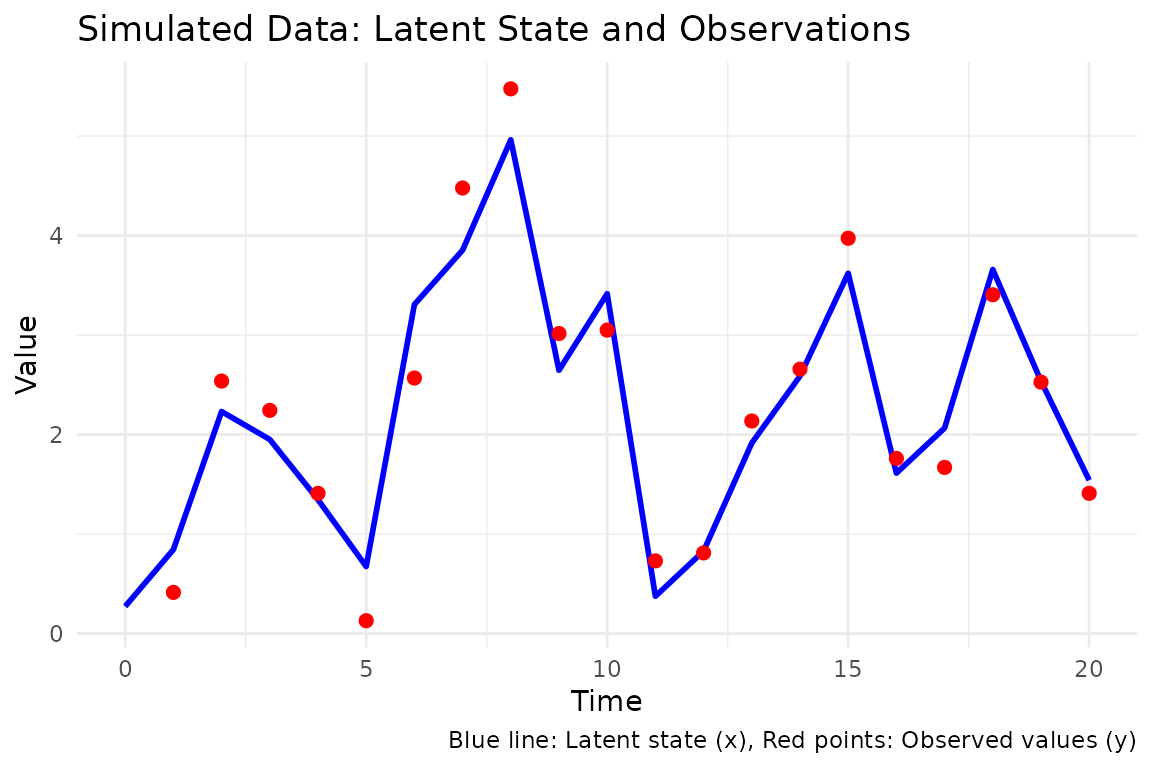
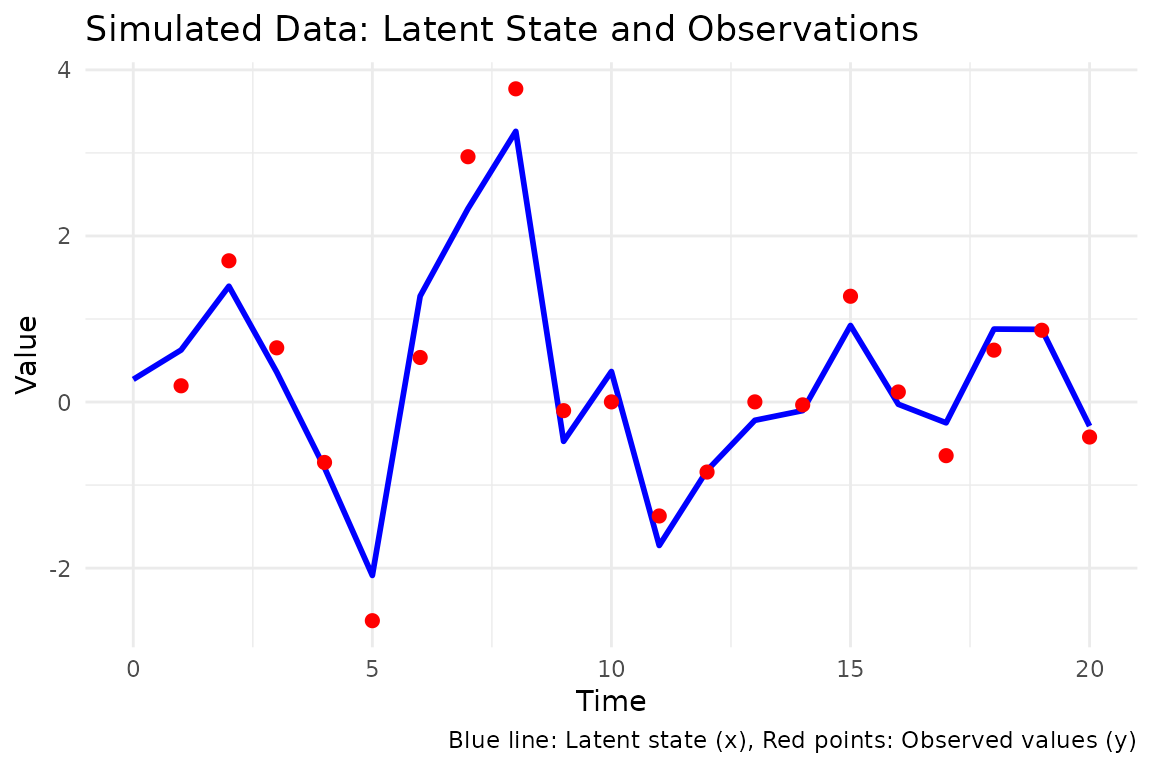
Deploying to gh-pages from @ BjarkeHautop/bayesSSM@52d4bec5248b531f1075fa6bc460a51c7f38d018 🚀

diff --git a/articles/bayesSSM.html b/articles/bayesSSM.html
@@ -25,7 +25,7 @@
 
     <a class="navbar-brand me-2" href="../index.html">bayesSSM</a>
 
-    <small class="nav-text text-muted me-auto" data-bs-toggle="tooltip" data-bs-placement="bottom" title="">0.5.0.9010</small>
+    <small class="nav-text text-muted me-auto" data-bs-toggle="tooltip" data-bs-placement="bottom" title="">0.5.0.9011</small>
 
 
     <button class="navbar-toggler" type="button" data-bs-toggle="collapse" data-bs-target="#navbar" aria-controls="navbar" aria-expanded="false" aria-label="Toggle navigation">
@@ -76,35 +76,32 @@
 <span><span class="kw"><a href="https://rdrr.io/r/base/library.html" class="external-link">library</a></span><span class="op">(</span><span class="va"><a href="https://ggplot2.tidyverse.org" class="external-link">ggplot2</a></span><span class="op">)</span></span></code></pre></div>
 <p>We will show how to fit the following SSM model using the
 <code>bayesSSM</code> package:</p>
-<p><math display="block" xmlns="http://www.w3.org/1998/Math/MathML"><semantics><mtable><mtr><mtd columnalign="right" style="text-align: right"><msub><mi>X</mi><mn>0</mn></msub></mtd><mtd columnalign="left" style="text-align: left"><mo>∼</mo><mi>N</mi><mrow><mo stretchy="true" form="prefix">(</mo><mn>0</mn><mo>,</mo><mn>1</mn><mo stretchy="true" form="postfix">)</mo></mrow></mtd></mtr><mtr><mtd columnalign="right" style="text-align: right"><msub><mi>X</mi><mi>t</mi></msub></mtd><mtd columnalign="left" style="text-align: left"><mo>=</mo><mi>ϕ</mi><msub><mi>X</mi><mrow><mi>t</mi><mo>−</mo><mn>1</mn></mrow></msub><mo>+</mo><mo>sin</mo><mrow><mo stretchy="true" form="prefix">(</mo><msub><mi>X</mi><mrow><mi>t</mi><mo>−</mo><mn>1</mn></mrow></msub><mo stretchy="true" form="postfix">)</mo></mrow><mo>+</mo><msub><mi>σ</mi><mi>x</mi></msub><msub><mi>V</mi><mi>t</mi></msub><mo>,</mo><mspace width="1.0em"></mspace><msub><mi>V</mi><mi>t</mi></msub><mo>∼</mo><mi>N</mi><mrow><mo stretchy="true" form="prefix">(</mo><mn>0</mn><mo>,</mo><mn>1</mn><mo stretchy="true" form="postfix">)</mo></mrow><mo>,</mo><mspace width="1.0em"></mspace><mi>t</mi><mo>≥</mo><mn>1</mn></mtd></mtr><mtr><mtd columnalign="right" style="text-align: right"><msub><mi>Y</mi><mi>t</mi></msub></mtd><mtd columnalign="left" style="text-align: left"><mo>=</mo><msub><mi>X</mi><mi>t</mi></msub><mo>+</mo><msub><mi>σ</mi><mi>y</mi></msub><msub><mi>W</mi><mi>t</mi></msub><mo>,</mo><mspace width="1.0em"></mspace><msub><mi>W</mi><mi>t</mi></msub><mo>∼</mo><mi>N</mi><mrow><mo stretchy="true" form="prefix">(</mo><mn>0</mn><mo>,</mo><mn>1</mn><mo stretchy="true" form="postfix">)</mo></mrow><mo>,</mo><mspace width="1.0em"></mspace><mi>t</mi><mo>≥</mo><mn>1</mn></mtd></mtr></mtable><annotation encoding="application/x-tex">\begin{align*}
+<p><math display="block" xmlns="http://www.w3.org/1998/Math/MathML"><semantics><mtable><mtr><mtd columnalign="right" style="text-align: right"><msub><mi>X</mi><mn>0</mn></msub></mtd><mtd columnalign="left" style="text-align: left"><mo>∼</mo><mi>N</mi><mrow><mo stretchy="true" form="prefix">(</mo><mn>0</mn><mo>,</mo><mn>1</mn><mo stretchy="true" form="postfix">)</mo></mrow></mtd></mtr><mtr><mtd columnalign="right" style="text-align: right"><msub><mi>X</mi><mi>t</mi></msub></mtd><mtd columnalign="left" style="text-align: left"><mo>=</mo><mo>sin</mo><mrow><mo stretchy="true" form="prefix">(</mo><msub><mi>X</mi><mrow><mi>t</mi><mo>−</mo><mn>1</mn></mrow></msub><mo stretchy="true" form="postfix">)</mo></mrow><mo>+</mo><msub><mi>σ</mi><mi>x</mi></msub><msub><mi>V</mi><mi>t</mi></msub><mo>,</mo><mspace width="1.0em"></mspace><msub><mi>V</mi><mi>t</mi></msub><mo>∼</mo><mi>N</mi><mrow><mo stretchy="true" form="prefix">(</mo><mn>0</mn><mo>,</mo><mn>1</mn><mo stretchy="true" form="postfix">)</mo></mrow><mo>,</mo><mspace width="1.0em"></mspace><mi>t</mi><mo>≥</mo><mn>1</mn></mtd></mtr><mtr><mtd columnalign="right" style="text-align: right"><msub><mi>Y</mi><mi>t</mi></msub></mtd><mtd columnalign="left" style="text-align: left"><mo>=</mo><msub><mi>X</mi><mi>t</mi></msub><mo>+</mo><msub><mi>σ</mi><mi>y</mi></msub><msub><mi>W</mi><mi>t</mi></msub><mo>,</mo><mspace width="1.0em"></mspace><msub><mi>W</mi><mi>t</mi></msub><mo>∼</mo><mi>N</mi><mrow><mo stretchy="true" form="prefix">(</mo><mn>0</mn><mo>,</mo><mn>1</mn><mo stretchy="true" form="postfix">)</mo></mrow><mo>,</mo><mspace width="1.0em"></mspace><mi>t</mi><mo>≥</mo><mn>1</mn></mtd></mtr></mtable><annotation encoding="application/x-tex">\begin{align*}
         X_0 &amp;\sim N(0,1) \\
-        X_t&amp;=\phi X_{t-1}+\sin(X_{t-1})+\sigma_x V_t, \quad V_t \sim N(0,1), \quad t\geq 1 \\
+        X_t&amp;=\sin(X_{t-1})+\sigma_x V_t, \quad V_t \sim N(0,1), \quad t\geq 1 \\
         Y_t&amp;=X_t+\sigma_y W_t, \quad W_t \sim N(0, 1), \quad t\geq 1 
 \end{align*}</annotation></semantics></math> that is
 <math display="inline" xmlns="http://www.w3.org/1998/Math/MathML"><semantics><msub><mi>X</mi><mi>t</mi></msub><annotation encoding="application/x-tex">X_t</annotation></semantics></math>
 is a latent state and
 <math display="inline" xmlns="http://www.w3.org/1998/Math/MathML"><semantics><msub><mi>Y</mi><mi>t</mi></msub><annotation encoding="application/x-tex">Y_t</annotation></semantics></math>
 is an observed value. The parameters of the model are
-<math display="inline" xmlns="http://www.w3.org/1998/Math/MathML"><semantics><mi>ϕ</mi><annotation encoding="application/x-tex">\phi</annotation></semantics></math>,
-<math display="inline" xmlns="http://www.w3.org/1998/Math/MathML"><semantics><msub><mi>σ</mi><mi>x</mi></msub><annotation encoding="application/x-tex">\sigma_x</annotation></semantics></math>,
+<math display="inline" xmlns="http://www.w3.org/1998/Math/MathML"><semantics><msub><mi>σ</mi><mi>x</mi></msub><annotation encoding="application/x-tex">\sigma_x</annotation></semantics></math>
 and
 <math display="inline" xmlns="http://www.w3.org/1998/Math/MathML"><semantics><msub><mi>σ</mi><mi>y</mi></msub><annotation encoding="application/x-tex">\sigma_y</annotation></semantics></math>.</p>
 <p>First, we will simulate some data from this model:</p>
 <div class="sourceCode" id="cb2"><pre class="downlit sourceCode r">
 <code class="sourceCode R"><span><span class="fu"><a href="https://rdrr.io/r/base/Random.html" class="external-link">set.seed</a></span><span class="op">(</span><span class="fl">1405</span><span class="op">)</span></span>
 <span><span class="va">t_val</span> <span class="op">&lt;-</span> <span class="fl">20</span></span>
-<span><span class="va">phi</span> <span class="op">&lt;-</span> <span class="fl">0.8</span></span>
 <span><span class="va">sigma_x</span> <span class="op">&lt;-</span> <span class="fl">1</span></span>
 <span><span class="va">sigma_y</span> <span class="op">&lt;-</span> <span class="fl">0.5</span></span>
 <span></span>
 <span><span class="va">init_state</span> <span class="op">&lt;-</span> <span class="fu"><a href="https://rdrr.io/r/stats/Normal.html" class="external-link">rnorm</a></span><span class="op">(</span><span class="fl">1</span>, mean <span class="op">=</span> <span class="fl">0</span>, sd <span class="op">=</span> <span class="fl">1</span><span class="op">)</span></span>
 <span><span class="va">x</span> <span class="op">&lt;-</span> <span class="fu"><a href="https://rdrr.io/r/base/numeric.html" class="external-link">numeric</a></span><span class="op">(</span><span class="va">t_val</span><span class="op">)</span></span>
 <span><span class="va">y</span> <span class="op">&lt;-</span> <span class="fu"><a href="https://rdrr.io/r/base/numeric.html" class="external-link">numeric</a></span><span class="op">(</span><span class="va">t_val</span><span class="op">)</span></span>
-<span><span class="va">x</span><span class="op">[</span><span class="fl">1</span><span class="op">]</span> <span class="op">&lt;-</span> <span class="va">phi</span> <span class="op">*</span> <span class="va">init_state</span> <span class="op">+</span> <span class="fu"><a href="https://rdrr.io/r/base/Trig.html" class="external-link">sin</a></span><span class="op">(</span><span class="va">init_state</span><span class="op">)</span> <span class="op">+</span></span>
-<span>  <span class="fu"><a href="https://rdrr.io/r/stats/Normal.html" class="external-link">rnorm</a></span><span class="op">(</span><span class="fl">1</span>, mean <span class="op">=</span> <span class="fl">0</span>, sd <span class="op">=</span> <span class="va">sigma_x</span><span class="op">)</span></span>
+<span><span class="va">x</span><span class="op">[</span><span class="fl">1</span><span class="op">]</span> <span class="op">&lt;-</span> <span class="fu"><a href="https://rdrr.io/r/base/Trig.html" class="external-link">sin</a></span><span class="op">(</span><span class="va">init_state</span><span class="op">)</span> <span class="op">+</span> <span class="fu"><a href="https://rdrr.io/r/stats/Normal.html" class="external-link">rnorm</a></span><span class="op">(</span><span class="fl">1</span>, mean <span class="op">=</span> <span class="fl">0</span>, sd <span class="op">=</span> <span class="va">sigma_x</span><span class="op">)</span></span>
 <span><span class="va">y</span><span class="op">[</span><span class="fl">1</span><span class="op">]</span> <span class="op">&lt;-</span> <span class="va">x</span><span class="op">[</span><span class="fl">1</span><span class="op">]</span> <span class="op">+</span> <span class="fu"><a href="https://rdrr.io/r/stats/Normal.html" class="external-link">rnorm</a></span><span class="op">(</span><span class="fl">1</span>, mean <span class="op">=</span> <span class="fl">0</span>, sd <span class="op">=</span> <span class="va">sigma_y</span><span class="op">)</span></span>
 <span><span class="kw">for</span> <span class="op">(</span><span class="va">t</span> <span class="kw">in</span> <span class="fl">2</span><span class="op">:</span><span class="va">t_val</span><span class="op">)</span> <span class="op">{</span></span>
-<span>  <span class="va">x</span><span class="op">[</span><span class="va">t</span><span class="op">]</span> <span class="op">&lt;-</span> <span class="va">phi</span> <span class="op">*</span> <span class="va">x</span><span class="op">[</span><span class="va">t</span> <span class="op">-</span> <span class="fl">1</span><span class="op">]</span> <span class="op">+</span> <span class="fu"><a href="https://rdrr.io/r/base/Trig.html" class="external-link">sin</a></span><span class="op">(</span><span class="va">x</span><span class="op">[</span><span class="va">t</span> <span class="op">-</span> <span class="fl">1</span><span class="op">]</span><span class="op">)</span> <span class="op">+</span> <span class="fu"><a href="https://rdrr.io/r/stats/Normal.html" class="external-link">rnorm</a></span><span class="op">(</span><span class="fl">1</span>, mean <span class="op">=</span> <span class="fl">0</span>, sd <span class="op">=</span> <span class="va">sigma_x</span><span class="op">)</span></span>
+<span>  <span class="va">x</span><span class="op">[</span><span class="va">t</span><span class="op">]</span> <span class="op">&lt;-</span> <span class="fu"><a href="https://rdrr.io/r/base/Trig.html" class="external-link">sin</a></span><span class="op">(</span><span class="va">x</span><span class="op">[</span><span class="va">t</span> <span class="op">-</span> <span class="fl">1</span><span class="op">]</span><span class="op">)</span> <span class="op">+</span> <span class="fu"><a href="https://rdrr.io/r/stats/Normal.html" class="external-link">rnorm</a></span><span class="op">(</span><span class="fl">1</span>, mean <span class="op">=</span> <span class="fl">0</span>, sd <span class="op">=</span> <span class="va">sigma_x</span><span class="op">)</span></span>
 <span>  <span class="va">y</span><span class="op">[</span><span class="va">t</span><span class="op">]</span> <span class="op">&lt;-</span> <span class="va">x</span><span class="op">[</span><span class="va">t</span><span class="op">]</span> <span class="op">+</span> <span class="fu"><a href="https://rdrr.io/r/stats/Normal.html" class="external-link">rnorm</a></span><span class="op">(</span><span class="fl">1</span>, mean <span class="op">=</span> <span class="fl">0</span>, sd <span class="op">=</span> <span class="va">sigma_y</span><span class="op">)</span></span>
 <span><span class="op">}</span></span>
 <span><span class="va">x</span> <span class="op">&lt;-</span> <span class="fu"><a href="https://rdrr.io/r/base/c.html" class="external-link">c</a></span><span class="op">(</span><span class="va">init_state</span>, <span class="va">x</span><span class="op">)</span></span></code></pre></div>
@@ -138,30 +135,24 @@ in <code>transition_fn</code> and <code>log_likelihood_fn</code>.</p>
 <span>  <span class="fu"><a href="https://rdrr.io/r/stats/Normal.html" class="external-link">rnorm</a></span><span class="op">(</span><span class="va">num_particles</span>, mean <span class="op">=</span> <span class="fl">0</span>, sd <span class="op">=</span> <span class="fl">1</span><span class="op">)</span></span>
 <span><span class="op">}</span></span>
 <span></span>
-<span><span class="va">transition_fn</span> <span class="op">&lt;-</span> <span class="kw">function</span><span class="op">(</span><span class="va">particles</span>, <span class="va">phi</span>, <span class="va">sigma_x</span><span class="op">)</span> <span class="op">{</span></span>
-<span>  <span class="va">phi</span> <span class="op">*</span> <span class="va">particles</span> <span class="op">+</span> <span class="fu"><a href="https://rdrr.io/r/base/Trig.html" class="external-link">sin</a></span><span class="op">(</span><span class="va">particles</span><span class="op">)</span> <span class="op">+</span></span>
-<span>    <span class="fu"><a href="https://rdrr.io/r/stats/Normal.html" class="external-link">rnorm</a></span><span class="op">(</span><span class="fu"><a href="https://rdrr.io/r/base/length.html" class="external-link">length</a></span><span class="op">(</span><span class="va">particles</span><span class="op">)</span>, mean <span class="op">=</span> <span class="fl">0</span>, sd <span class="op">=</span> <span class="va">sigma_x</span><span class="op">)</span></span>
+<span><span class="va">transition_fn</span> <span class="op">&lt;-</span> <span class="kw">function</span><span class="op">(</span><span class="va">particles</span>, <span class="va">sigma_x</span><span class="op">)</span> <span class="op">{</span></span>
+<span>  <span class="fu"><a href="https://rdrr.io/r/base/Trig.html" class="external-link">sin</a></span><span class="op">(</span><span class="va">particles</span><span class="op">)</span> <span class="op">+</span> <span class="fu"><a href="https://rdrr.io/r/stats/Normal.html" class="external-link">rnorm</a></span><span class="op">(</span><span class="fu"><a href="https://rdrr.io/r/base/length.html" class="external-link">length</a></span><span class="op">(</span><span class="va">particles</span><span class="op">)</span>, mean <span class="op">=</span> <span class="fl">0</span>, sd <span class="op">=</span> <span class="va">sigma_x</span><span class="op">)</span></span>
 <span><span class="op">}</span></span>
 <span></span>
 <span><span class="va">log_likelihood_fn</span> <span class="op">&lt;-</span> <span class="kw">function</span><span class="op">(</span><span class="va">y</span>, <span class="va">particles</span>, <span class="va">sigma_y</span><span class="op">)</span> <span class="op">{</span></span>
 <span>  <span class="fu"><a href="https://rdrr.io/r/stats/Normal.html" class="external-link">dnorm</a></span><span class="op">(</span><span class="va">y</span>, mean <span class="op">=</span> <span class="va">particles</span>, sd <span class="op">=</span> <span class="va">sigma_y</span>, log <span class="op">=</span> <span class="cn">TRUE</span><span class="op">)</span></span>
 <span><span class="op">}</span></span></code></pre></div>
 <p>Since we are interested in Bayesian inference, we need to specify the
-priors for our parameters. We will use a normal prior for
-<math display="inline" xmlns="http://www.w3.org/1998/Math/MathML"><semantics><mi>ϕ</mi><annotation encoding="application/x-tex">\phi</annotation></semantics></math>
-and exponential priors for
+priors for our parameters. We will use exponential priors for
 <math display="inline" xmlns="http://www.w3.org/1998/Math/MathML"><semantics><msub><mi>σ</mi><mi>x</mi></msub><annotation encoding="application/x-tex">\sigma_x</annotation></semantics></math>
 and
-<math display="inline" xmlns="http://www.w3.org/1998/Math/MathML"><semantics><msub><mi>σ</mi><mi>y</mi></msub><annotation encoding="application/x-tex">\sigma_y</annotation></semantics></math>.
-<code>pmmh</code> needs the priors to be specified on the
+<math display="inline" xmlns="http://www.w3.org/1998/Math/MathML"><semantics><msub><mi>σ</mi><mi>y</mi></msub><annotation encoding="application/x-tex">\sigma_y</annotation></semantics></math>
+in this vignette. <code>pmmh</code> needs the priors to be specified on
+the
 <math display="inline" xmlns="http://www.w3.org/1998/Math/MathML"><semantics><mo>log</mo><annotation encoding="application/x-tex">\log</annotation></semantics></math>-scale
 and takes the priors as a list of functions.</p>
 <div class="sourceCode" id="cb5"><pre class="downlit sourceCode r">
-<code class="sourceCode R"><span><span class="va">log_prior_phi</span> <span class="op">&lt;-</span> <span class="kw">function</span><span class="op">(</span><span class="va">phi</span><span class="op">)</span> <span class="op">{</span></span>
-<span>  <span class="fu"><a href="https://rdrr.io/r/stats/Uniform.html" class="external-link">dunif</a></span><span class="op">(</span><span class="va">phi</span>, min <span class="op">=</span> <span class="fl">0</span>, max <span class="op">=</span> <span class="fl">1</span>, log <span class="op">=</span> <span class="cn">TRUE</span><span class="op">)</span></span>
-<span><span class="op">}</span></span>
-<span></span>
-<span><span class="va">log_prior_sigma_x</span> <span class="op">&lt;-</span> <span class="kw">function</span><span class="op">(</span><span class="va">sigma</span><span class="op">)</span> <span class="op">{</span></span>
+<code class="sourceCode R"><span><span class="va">log_prior_sigma_x</span> <span class="op">&lt;-</span> <span class="kw">function</span><span class="op">(</span><span class="va">sigma</span><span class="op">)</span> <span class="op">{</span></span>
 <span>  <span class="fu"><a href="https://rdrr.io/r/stats/Exponential.html" class="external-link">dexp</a></span><span class="op">(</span><span class="va">sigma</span>, rate <span class="op">=</span> <span class="fl">1</span>, log <span class="op">=</span> <span class="cn">TRUE</span><span class="op">)</span></span>
 <span><span class="op">}</span></span>
 <span></span>
@@ -170,7 +161,6 @@ and takes the priors as a list of functions.</p>
 <span><span class="op">}</span></span>
 <span></span>
 <span><span class="va">log_priors</span> <span class="op">&lt;-</span> <span class="fu"><a href="https://rdrr.io/r/base/list.html" class="external-link">list</a></span><span class="op">(</span></span>
-<span>  phi <span class="op">=</span> <span class="va">log_prior_phi</span>,</span>
 <span>  sigma_x <span class="op">=</span> <span class="va">log_prior_sigma_x</span>,</span>
 <span>  sigma_y <span class="op">=</span> <span class="va">log_prior_sigma_y</span></span>
 <span><span class="op">)</span></span></code></pre></div>
@@ -201,14 +191,13 @@ should be on the
 <span>  log_likelihood_fn <span class="op">=</span> <span class="va">log_likelihood_fn</span>,</span>
 <span>  log_priors <span class="op">=</span> <span class="va">log_priors</span>,</span>
 <span>  pilot_init_params <span class="op">=</span> <span class="fu"><a href="https://rdrr.io/r/base/list.html" class="external-link">list</a></span><span class="op">(</span></span>
-<span>    <span class="fu"><a href="https://rdrr.io/r/base/c.html" class="external-link">c</a></span><span class="op">(</span>phi <span class="op">=</span> <span class="fl">0.4</span>, sigma_x <span class="op">=</span> <span class="fl">0.4</span>, sigma_y <span class="op">=</span> <span class="fl">0.4</span><span class="op">)</span>,</span>
-<span>    <span class="fu"><a href="https://rdrr.io/r/base/c.html" class="external-link">c</a></span><span class="op">(</span>phi <span class="op">=</span> <span class="fl">0.8</span>, sigma_x <span class="op">=</span> <span class="fl">0.8</span>, sigma_y <span class="op">=</span> <span class="fl">0.8</span><span class="op">)</span></span>
+<span>    <span class="fu"><a href="https://rdrr.io/r/base/c.html" class="external-link">c</a></span><span class="op">(</span>sigma_x <span class="op">=</span> <span class="fl">0.4</span>, sigma_y <span class="op">=</span> <span class="fl">0.4</span><span class="op">)</span>,</span>
+<span>    <span class="fu"><a href="https://rdrr.io/r/base/c.html" class="external-link">c</a></span><span class="op">(</span>sigma_x <span class="op">=</span> <span class="fl">0.8</span>, sigma_y <span class="op">=</span> <span class="fl">0.8</span><span class="op">)</span></span>
 <span>  <span class="op">)</span>,</span>
 <span>  burn_in <span class="op">=</span> <span class="fl">500</span>,</span>
 <span>  num_chains <span class="op">=</span> <span class="fl">2</span>,</span>
 <span>  seed <span class="op">=</span> <span class="fl">1405</span>,</span>
 <span>  param_transform <span class="op">=</span> <span class="fu"><a href="https://rdrr.io/r/base/list.html" class="external-link">list</a></span><span class="op">(</span></span>
-<span>    phi <span class="op">=</span> <span class="st">"logit"</span>,</span>
 <span>    sigma_x <span class="op">=</span> <span class="st">"log"</span>,</span>
 <span>    sigma_y <span class="op">=</span> <span class="st">"log"</span></span>
 <span>  <span class="op">)</span>,</span>
@@ -218,32 +207,29 @@ should be on the
 <span><span class="co">#&gt; Running chain 1...</span></span>
 <span><span class="co">#&gt; Running pilot chain for tuning...</span></span>
 <span><span class="co">#&gt; Pilot chain posterior mean:</span></span>
-<span><span class="co">#&gt;       phi   sigma_x   sigma_y </span></span>
-<span><span class="co">#&gt; 0.8366116 0.8055350 0.9033480</span></span>
+<span><span class="co">#&gt;   sigma_x   sigma_y </span></span>
+<span><span class="co">#&gt; 0.3141062 1.3603254</span></span>
 <span><span class="co">#&gt; Pilot chain posterior covariance (on transformed space):</span></span>
-<span><span class="co">#&gt;                  phi     sigma_x    sigma_y</span></span>
-<span><span class="co">#&gt; phi      0.002886243  0.00745419 -0.0135152</span></span>
-<span><span class="co">#&gt; sigma_x  0.007454190  0.30397126 -0.2098967</span></span>
-<span><span class="co">#&gt; sigma_y -0.013515201 -0.20989672  0.2087795</span></span>
+<span><span class="co">#&gt;             sigma_x     sigma_y</span></span>
+<span><span class="co">#&gt; sigma_x  0.04474149 -0.01090838</span></span>
+<span><span class="co">#&gt; sigma_y -0.01090838  0.02731918</span></span>
 <span><span class="co">#&gt; Using 50 particles for PMMH:</span></span>
 <span><span class="co">#&gt; Running Particle MCMC chain with tuned settings...</span></span>
 <span><span class="co">#&gt; Running chain 2...</span></span>
 <span><span class="co">#&gt; Running pilot chain for tuning...</span></span>
 <span><span class="co">#&gt; Pilot chain posterior mean:</span></span>
-<span><span class="co">#&gt;       phi   sigma_x   sigma_y </span></span>
-<span><span class="co">#&gt; 0.8571384 1.0670945 0.3961579</span></span>
+<span><span class="co">#&gt;   sigma_x   sigma_y </span></span>
+<span><span class="co">#&gt; 0.8389468 1.1278880</span></span>
 <span><span class="co">#&gt; Pilot chain posterior covariance (on transformed space):</span></span>
-<span><span class="co">#&gt;                  phi      sigma_x      sigma_y</span></span>
-<span><span class="co">#&gt; phi      0.003330875 -0.001494631  0.007777211</span></span>
-<span><span class="co">#&gt; sigma_x -0.001494631  0.039551392 -0.027059704</span></span>
-<span><span class="co">#&gt; sigma_y  0.007777211 -0.027059704  0.035093804</span></span>
-<span><span class="co">#&gt; Using 93 particles for PMMH:</span></span>
+<span><span class="co">#&gt;             sigma_x     sigma_y</span></span>
+<span><span class="co">#&gt; sigma_x  0.20351954 -0.07524757</span></span>
+<span><span class="co">#&gt; sigma_y -0.07524757  0.04146851</span></span>
+<span><span class="co">#&gt; Using 50 particles for PMMH:</span></span>
 <span><span class="co">#&gt; Running Particle MCMC chain with tuned settings...</span></span>
 <span><span class="co">#&gt; PMMH Results Summary:</span></span>
 <span><span class="co">#&gt;  Parameter Mean   SD Median 2.5% 97.5% ESS  Rhat</span></span>
-<span><span class="co">#&gt;        phi 0.99 0.02   1.00 0.91  1.00   4 1.513</span></span>
-<span><span class="co">#&gt;    sigma_x 1.21 0.37   1.21 0.45  1.89  31 1.072</span></span>
-<span><span class="co">#&gt;    sigma_y 0.68 0.37   0.55 0.19  1.36  25 1.070</span></span>
+<span><span class="co">#&gt;    sigma_x 0.74 0.49   0.69 0.05  1.71  17 1.145</span></span>
+<span><span class="co">#&gt;    sigma_y 1.11 0.39   1.17 0.39  1.77   4 1.265</span></span>
 <span><span class="co">#&gt; Warning in pmmh(y = y, m = 1000, init_fn = init_fn, transition_fn =</span></span>
 <span><span class="co">#&gt; transition_fn, : Some ESS values are below 400, indicating poor mixing.</span></span>
 <span><span class="co">#&gt; Consider running the chains for more iterations.</span></span>
@@ -260,25 +246,25 @@ be printed from any <code>pmmh_output</code> object by calling
 <code class="sourceCode R"><span><span class="fu"><a href="https://rdrr.io/r/base/print.html" class="external-link">print</a></span><span class="op">(</span><span class="va">result</span><span class="op">)</span></span>
 <span><span class="co">#&gt; PMMH Results Summary:</span></span>
 <span><span class="co">#&gt;  Parameter Mean   SD Median 2.5% 97.5% ESS  Rhat</span></span>
-<span><span class="co">#&gt;        phi 0.99 0.02   1.00 0.91  1.00   4 1.513</span></span>
-<span><span class="co">#&gt;    sigma_x 1.21 0.37   1.21 0.45  1.89  31 1.072</span></span>
-<span><span class="co">#&gt;    sigma_y 0.68 0.37   0.55 0.19  1.36  25 1.070</span></span></code></pre></div>
+<span><span class="co">#&gt;    sigma_x 0.74 0.49   0.69 0.05  1.71  17 1.145</span></span>
+<span><span class="co">#&gt;    sigma_y 1.11 0.39   1.17 0.39  1.77   4 1.265</span></span></code></pre></div>
 <p>The chains are saved as <code>theta_chain</code></p>
 <div class="sourceCode" id="cb8"><pre class="downlit sourceCode r">
 <code class="sourceCode R"><span><span class="va">chains</span> <span class="op">&lt;-</span> <span class="va">result</span><span class="op">$</span><span class="va">theta_chain</span></span></code></pre></div>
-<p>Let’s collect the chains for phi from the chains and visualize the
-densities</p>
+<p>Let’s collect the chains for
+<math display="inline" xmlns="http://www.w3.org/1998/Math/MathML"><semantics><msub><mi>σ</mi><mi>x</mi></msub><annotation encoding="application/x-tex">\sigma_x</annotation></semantics></math>
+from the chains and visualize the densities</p>
 <div class="sourceCode" id="cb9"><pre class="downlit sourceCode r">
-<code class="sourceCode R"><span><span class="fu"><a href="https://ggplot2.tidyverse.org/reference/ggplot.html" class="external-link">ggplot</a></span><span class="op">(</span><span class="va">chains</span>, <span class="fu"><a href="https://ggplot2.tidyverse.org/reference/aes.html" class="external-link">aes</a></span><span class="op">(</span>x <span class="op">=</span> <span class="va">phi</span>, fill <span class="op">=</span> <span class="fu"><a href="https://rdrr.io/r/base/factor.html" class="external-link">factor</a></span><span class="op">(</span><span class="va">chain</span><span class="op">)</span><span class="op">)</span><span class="op">)</span> <span class="op">+</span></span>
+<code class="sourceCode R"><span><span class="fu"><a href="https://ggplot2.tidyverse.org/reference/ggplot.html" class="external-link">ggplot</a></span><span class="op">(</span><span class="va">chains</span>, <span class="fu"><a href="https://ggplot2.tidyverse.org/reference/aes.html" class="external-link">aes</a></span><span class="op">(</span>x <span class="op">=</span> <span class="va">sigma_x</span>, fill <span class="op">=</span> <span class="fu"><a href="https://rdrr.io/r/base/factor.html" class="external-link">factor</a></span><span class="op">(</span><span class="va">chain</span><span class="op">)</span><span class="op">)</span><span class="op">)</span> <span class="op">+</span></span>
 <span>  <span class="fu"><a href="https://ggplot2.tidyverse.org/reference/geom_density.html" class="external-link">geom_density</a></span><span class="op">(</span>alpha <span class="op">=</span> <span class="fl">0.5</span><span class="op">)</span> <span class="op">+</span></span>
 <span>  <span class="fu"><a href="https://ggplot2.tidyverse.org/reference/labs.html" class="external-link">labs</a></span><span class="op">(</span></span>
-<span>    title <span class="op">=</span> <span class="st">"Density plot of phi chains"</span>,</span>
+<span>    title <span class="op">=</span> <span class="st">"Density plot of sigma_x chains"</span>,</span>
 <span>    x <span class="op">=</span> <span class="st">"Value"</span>,</span>
 <span>    y <span class="op">=</span> <span class="st">"Density"</span>,</span>
 <span>    fill <span class="op">=</span> <span class="st">"Chain"</span></span>
 <span>  <span class="op">)</span> <span class="op">+</span></span>
 <span>  <span class="fu"><a href="https://ggplot2.tidyverse.org/reference/ggtheme.html" class="external-link">theme_minimal</a></span><span class="op">(</span><span class="op">)</span></span></code></pre></div>
-<p><img src="bayesSSM_files/figure-html/unnamed-chunk-9-1.png" alt="Density plot of phi chains." width="576"></p>
+<p><img src="bayesSSM_files/figure-html/unnamed-chunk-9-1.png" alt="Density plot of sigma_x chains." width="576"></p>
 <p>We have now fitted a simple SSM model using <code>bayesSSM</code>.
 Feel free to explore the package further and try out different
 models.</p>

diff --git a/authors.html b/authors.html
@@ -7,7 +7,7 @@
 
     <a class="navbar-brand me-2" href="index.html">bayesSSM</a>
 
-    <small class="nav-text text-muted me-auto" data-bs-toggle="tooltip" data-bs-placement="bottom" title="">0.5.0.9010</small>
+    <small class="nav-text text-muted me-auto" data-bs-toggle="tooltip" data-bs-placement="bottom" title="">0.5.0.9011</small>
 
 
     <button class="navbar-toggler" type="button" data-bs-toggle="collapse" data-bs-target="#navbar" aria-controls="navbar" aria-expanded="false" aria-label="Toggle navigation">
@@ -51,13 +51,13 @@
 
       <p>Hautop B (2025).
 <em>bayesSSM: Bayesian Methods for State Space Models</em>.
-R package version 0.5.0.9010, <a href="https://github.com/BjarkeHautop/bayesSSM" class="external-link">https://github.com/BjarkeHautop/bayesSSM</a>.
+R package version 0.5.0.9011, <a href="https://github.com/BjarkeHautop/bayesSSM" class="external-link">https://github.com/BjarkeHautop/bayesSSM</a>.
 </p>
       <pre>@Manual{,
   title = {bayesSSM: Bayesian Methods for State Space Models},
   author = {Bjarke Hautop},
   year = {2025},
-  note = {R package version 0.5.0.9010},
+  note = {R package version 0.5.0.9011},
   url = {https://github.com/BjarkeHautop/bayesSSM},
 }</pre>
     </div>

diff --git a/index.html b/index.html
@@ -28,7 +28,7 @@
 
     <a class="navbar-brand me-2" href="index.html">bayesSSM</a>
 
-    <small class="nav-text text-muted me-auto" data-bs-toggle="tooltip" data-bs-placement="bottom" title="">0.5.0.9010</small>
+    <small class="nav-text text-muted me-auto" data-bs-toggle="tooltip" data-bs-placement="bottom" title="">0.5.0.9011</small>
 
 
     <button class="navbar-toggler" type="button" data-bs-toggle="collapse" data-bs-target="#navbar" aria-controls="navbar" aria-expanded="false" aria-label="Toggle navigation">
@@ -239,6 +239,7 @@
 <ul class="list-unstyled">
 <li><a href="https://app.codecov.io/gh/BjarkeHautop/bayesSSM" class="external-link"><img src="https://codecov.io/gh/BjarkeHautop/bayesSSM/graph/badge.svg" alt="Codecov test coverage"></a></li>
 <li><a href="https://github.com/BjarkeHautop/bayesSSM/actions/workflows/R-CMD-check.yaml" class="external-link"><img src="https://github.com/BjarkeHautop/bayesSSM/actions/workflows/R-CMD-check.yaml/badge.svg" alt="R-CMD-check"></a></li>
+<li><a href="https://cran.r-project.org/package=bayesSSM" class="external-link"><img src="https://cranlogs.r-pkg.org/badges/bayesSSM"></a></li>
 </ul>
 </div>
 

diff --git a/reference/particle_filter.html b/reference/particle_filter.html
@@ -25,7 +25,7 @@ It is recommended to use either SISR or SISAR to avoid weight degeneracy."><meta
 
     <a class="navbar-brand me-2" href="../index.html">bayesSSM</a>
 
-    <small class="nav-text text-muted me-auto" data-bs-toggle="tooltip" data-bs-placement="bottom" title="">0.5.0.9010</small>
+    <small class="nav-text text-muted me-auto" data-bs-toggle="tooltip" data-bs-placement="bottom" title="">0.5.0.9011</small>
 
 
     <button class="navbar-toggler" type="button" data-bs-toggle="collapse" data-bs-target="#navbar" aria-controls="navbar" aria-expanded="false" aria-label="Toggle navigation">

diff --git a/reference/pmmh.html b/reference/pmmh.html
@@ -13,7 +13,7 @@ particles for the particle filter, and then runs the main PMMH chain."><meta pro
 
     <a class="navbar-brand me-2" href="../index.html">bayesSSM</a>
 
-    <small class="nav-text text-muted me-auto" data-bs-toggle="tooltip" data-bs-placement="bottom" title="">0.5.0.9010</small>
+    <small class="nav-text text-muted me-auto" data-bs-toggle="tooltip" data-bs-placement="bottom" title="">0.5.0.9011</small>
 
 
     <button class="navbar-toggler" type="button" data-bs-toggle="collapse" data-bs-target="#navbar" aria-controls="navbar" aria-expanded="false" aria-label="Toggle navigation">

diff --git a/reference/print.pmmh_output.html b/reference/print.pmmh_output.html
@@ -13,7 +13,7 @@ a quick overview of the posterior distribution and convergence diagnostics."><me
 
     <a class="navbar-brand me-2" href="../index.html">bayesSSM</a>
 
-    <small class="nav-text text-muted me-auto" data-bs-toggle="tooltip" data-bs-placement="bottom" title="">0.5.0.9010</small>
+    <small class="nav-text text-muted me-auto" data-bs-toggle="tooltip" data-bs-placement="bottom" title="">0.5.0.9011</small>
 
 
     <button class="navbar-toggler" type="button" data-bs-toggle="collapse" data-bs-target="#navbar" aria-controls="navbar" aria-expanded="false" aria-label="Toggle navigation">

diff --git a/reference/summary.pmmh_output.html b/reference/summary.pmmh_output.html
@@ -9,7 +9,7 @@ means, standard deviations, medians, credible intervals, and diagnostics."><meta
 
     <a class="navbar-brand me-2" href="../index.html">bayesSSM</a>
 
-    <small class="nav-text text-muted me-auto" data-bs-toggle="tooltip" data-bs-placement="bottom" title="">0.5.0.9010</small>
+    <small class="nav-text text-muted me-auto" data-bs-toggle="tooltip" data-bs-placement="bottom" title="">0.5.0.9011</small>
 
 
     <button class="navbar-toggler" type="button" data-bs-toggle="collapse" data-bs-target="#navbar" aria-controls="navbar" aria-expanded="false" aria-label="Toggle navigation">

diff --git a/reference/default_tune_control.html b/reference/default_tune_control.html
@@ -11,7 +11,7 @@ pmmh function. The tuning choices are inspired by Pitt et al.
 
     <a class="navbar-brand me-2" href="../index.html">bayesSSM</a>
 
-    <small class="nav-text text-muted me-auto" data-bs-toggle="tooltip" data-bs-placement="bottom" title="">0.5.0.9010</small>
+    <small class="nav-text text-muted me-auto" data-bs-toggle="tooltip" data-bs-placement="bottom" title="">0.5.0.9011</small>
 
 
     <button class="navbar-toggler" type="button" data-bs-toggle="collapse" data-bs-target="#navbar" aria-controls="navbar" aria-expanded="false" aria-label="Toggle navigation">

diff --git a/404.html b/404.html
@@ -26,7 +26,7 @@
 
     <a class="navbar-brand me-2" href="https://bjarkehautop.github.io/bayesSSM/index.html">bayesSSM</a>
 
-    <small class="nav-text text-muted me-auto" data-bs-toggle="tooltip" data-bs-placement="bottom" title="">0.5.0.9010</small>
+    <small class="nav-text text-muted me-auto" data-bs-toggle="tooltip" data-bs-placement="bottom" title="">0.5.0.9011</small>
 
 
     <button class="navbar-toggler" type="button" data-bs-toggle="collapse" data-bs-target="#navbar" aria-controls="navbar" aria-expanded="false" aria-label="Toggle navigation">

diff --git a/articles/detailed-overview.html b/articles/detailed-overview.html
@@ -25,7 +25,7 @@
 
     <a class="navbar-brand me-2" href="../index.html">bayesSSM</a>
 
-    <small class="nav-text text-muted me-auto" data-bs-toggle="tooltip" data-bs-placement="bottom" title="">0.5.0.9010</small>
+    <small class="nav-text text-muted me-auto" data-bs-toggle="tooltip" data-bs-placement="bottom" title="">0.5.0.9011</small>
 
 
     <button class="navbar-toggler" type="button" data-bs-toggle="collapse" data-bs-target="#navbar" aria-controls="navbar" aria-expanded="false" aria-label="Toggle navigation">

diff --git a/articles/sir-model.html b/articles/sir-model.html
@@ -25,7 +25,7 @@
 
     <a class="navbar-brand me-2" href="../index.html">bayesSSM</a>
 
-    <small class="nav-text text-muted me-auto" data-bs-toggle="tooltip" data-bs-placement="bottom" title="">0.5.0.9010</small>
+    <small class="nav-text text-muted me-auto" data-bs-toggle="tooltip" data-bs-placement="bottom" title="">0.5.0.9011</small>
 
 
     <button class="navbar-toggler" type="button" data-bs-toggle="collapse" data-bs-target="#navbar" aria-controls="navbar" aria-expanded="false" aria-label="Toggle navigation">

diff --git a/articles/index.html b/articles/index.html
@@ -7,7 +7,7 @@
 
     <a class="navbar-brand me-2" href="../index.html">bayesSSM</a>
 
-    <small class="nav-text text-muted me-auto" data-bs-toggle="tooltip" data-bs-placement="bottom" title="">0.5.0.9010</small>
+    <small class="nav-text text-muted me-auto" data-bs-toggle="tooltip" data-bs-placement="bottom" title="">0.5.0.9011</small>
 
 
     <button class="navbar-toggler" type="button" data-bs-toggle="collapse" data-bs-target="#navbar" aria-controls="navbar" aria-expanded="false" aria-label="Toggle navigation">
